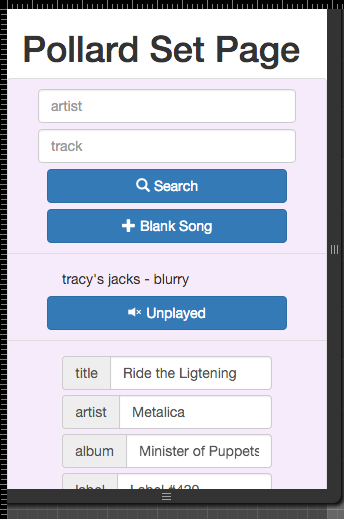
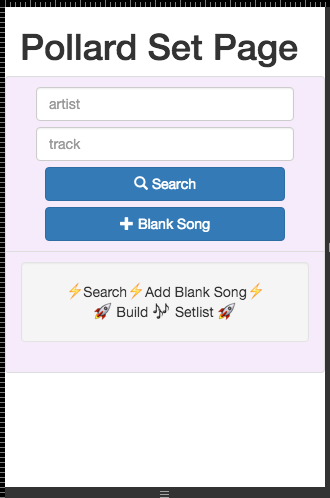
Update still && devnotes

Changed region(s): [[0.0, 0.0, 1.0, 1.0], [0.1818, 0.6928, 0.8182, 0.7831]]

diff --git a/txt/devnotes.md b/txt/devnotes.md
@@ -174,16 +174,16 @@ Total page size = 123K
 
 ## 10/24
 - XX enter on title/track should search
-
 - XX remove test data
 - XX add empty song component w/ hintz
+- XX Emojis now load right on dev server
 
 
 # ROLLING TO DO
-- favicon
-- move to kffp repo
-- I/0 w/ server
-- clean up/break out searchSong's components/styling
+- 00 edit img urls... somehow
+- 00 favicon
+- 00 I/0 w/ server
+- 00 clean up/break out searchSong's components/styling
 
 
 ## commands 2 learn && type
